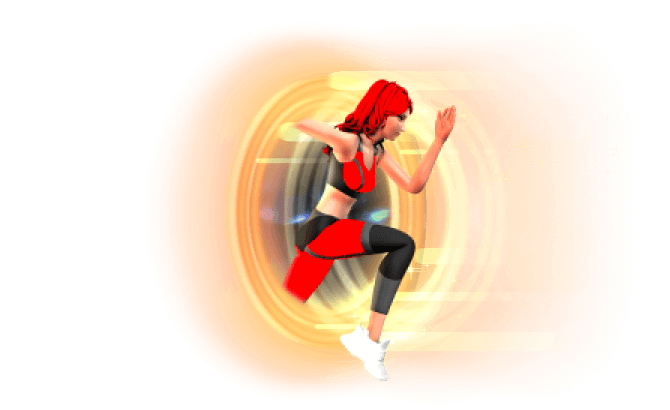
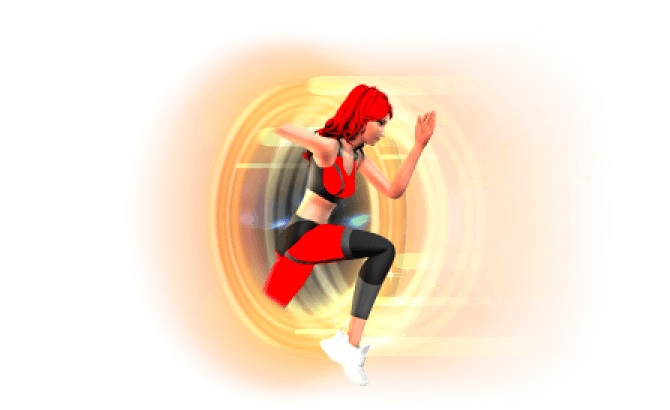
fix size

Changed region(s): [[0.2388, 0.0878, 0.6866, 0.9659]]

diff --git a/src/components/ui/MemberDashBoard/Group/GroupDetails/GroupError.tsx b/src/components/ui/MemberDashBoard/Group/GroupDetails/GroupError.tsx
@@ -11,29 +11,29 @@ const GroupError: React.FC<{ isError: string }> = (props) => {
 
   return (
     <Box textAlign="center">
-      <Box display="flex" maxW="670px" maxH="440px" position="relative" alignItems="center">
+      <Box display="flex" position="relative" alignItems="center">
         <Text
           bgGradient="linear-gradient(90deg, #F04153 0%, #F27961 100%)"
           bgClip="text"
           textStyle="ErrorText"
           position="absolute"
-          left={{ base: '12vw', sm: '6vw', md: '0' }}
+          left={{ base: '6vw', md: '0' }}
         >
           4
         </Text>
-        <Image src={Images.group.error} />
+        <Image src={Images.group.error} w="auto" h="auto" />
         <Text
           bgGradient="linear-gradient(90deg, #F04153 0%, #F27961 100%)"
           bgClip="text"
           textStyle="ErrorText"
           position="absolute"
-          right={{ base: '12vw', sm: '6vw', md: '0' }}
+          right={{ base: '6vw', md: '10' }}
         >
           4
         </Text>
       </Box>
       <Text
-        textStyle={{ base: 'regular6', md: 'TitleBold48_2' }}
+        textStyle={{ base: 'regular4', sm: 'regular6', md: 'TitleBold48_2' }}
         mt="20px"
         maxW="640px"
         textAlign="center"

diff --git a/src/theme/textStyles.tsx b/src/theme/textStyles.tsx
@@ -262,7 +262,7 @@ export default {
   ErrorText: {
     fontWeight: '500',
     // fontFamily: `Poppins ,${theme.fonts?.heading}`,
-    fontSize: { base: '25vw', md: '300px' },
+    fontSize: { base: '35vw', sm: '200px', md: '300px' },
     lineHeight: '360px',
   },
   accentGradient: {
